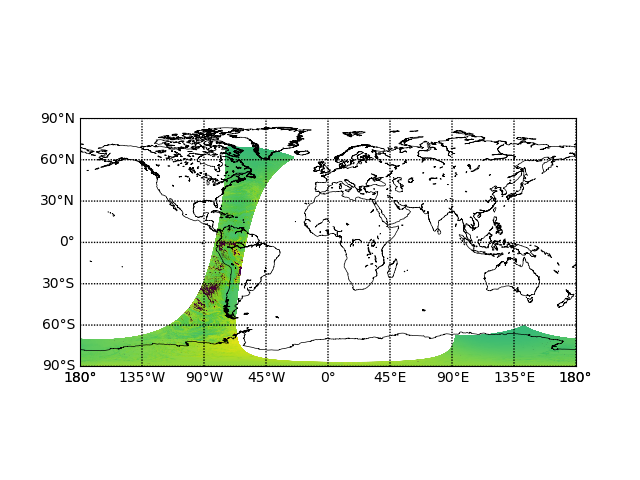
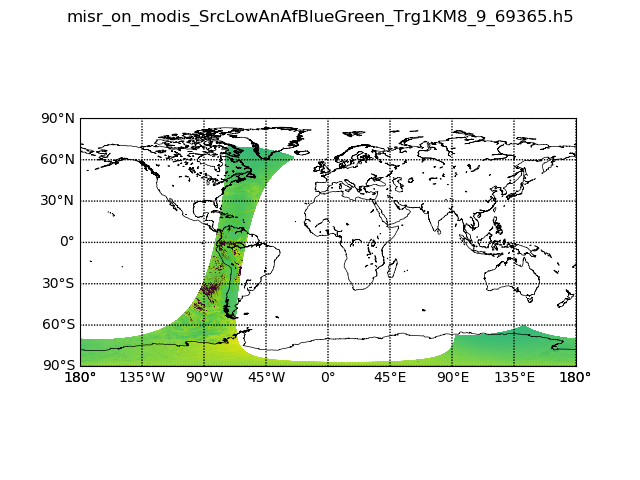
UIACCESS-66:updated plot code to include file name.

Changed region(s): [[0.0938, 0.0, 0.9062, 0.0625]]

diff --git a/misr_on_modis_SrcLowAnAfBlueGreen_Trg1KM8_9_69365.h5.py b/misr_on_modis_SrcLowAnAfBlueGreen_Trg1KM8_9_69365.h5.py
@@ -52,5 +52,6 @@ m.drawmeridians(np.arange(-180, 180., 45.), labels=[0, 0, 0, 1])
 m.scatter(modis_lon, modis_lat, c=datam, s=1,
           edgecolors=None, linewidth=0)
 fig = plt.gcf()
+fig.suptitle('{0}'.format(file_name))
 pngfile = file_name+'.py.png'
 fig.savefig(pngfile)

diff --git a/modis2ug.h5.py b/modis2ug.h5.py
@@ -52,5 +52,6 @@ m.drawmeridians(np.arange(-180, 180., 45.), labels=[0, 0, 0, 1])
 m.scatter(modis_lon, modis_lat, c=datam, s=1,
           edgecolors=None, linewidth=0)
 fig = plt.gcf()
+fig.suptitle('{0}'.format(file_name))
 pngfile = file_name+'.py.png'
 fig.savefig(pngfile)
